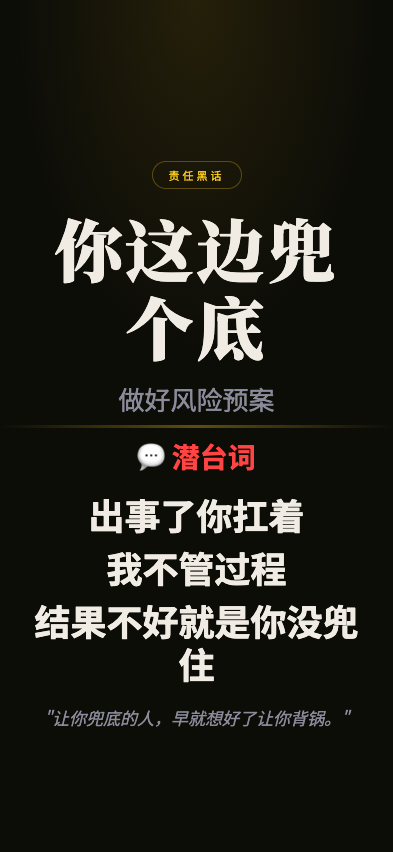
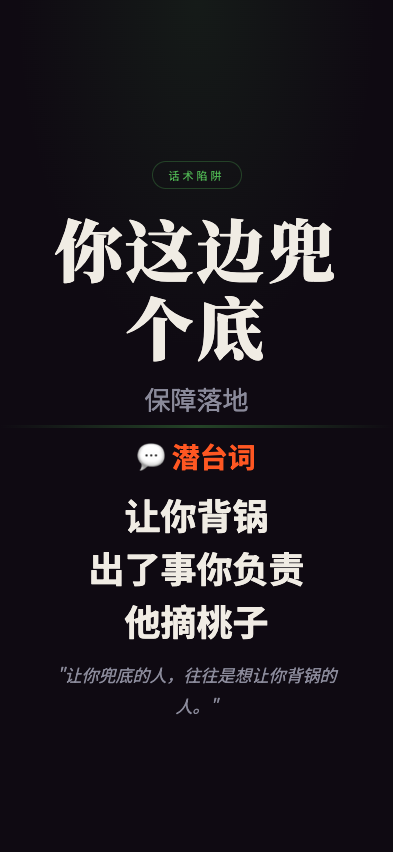
feat: 职场生存法则 screenshot - nizhebiandougedi

Changed region(s): [[0.0916, 0.5798, 0.916, 0.8545], [0.2443, 0.4577, 0.7634, 0.5493], [0.4275, 0.1831, 0.5802, 0.2136]]

diff --git a/wuliao-tools/tools/biz-speak/scenes/nizhebiandougedi.html b/wuliao-tools/tools/biz-speak/scenes/nizhebiandougedi.html
@@ -7,11 +7,11 @@
 <link href="https://fonts.googleapis.com/css2?family=Noto+Serif+SC:wght@400;700;900&family=Noto+Sans+SC:wght@300;400;700&display=swap" rel="stylesheet">
 <style>
   :root {
-    --bg: #0d0d08;
+    --bg: #0f0a12;
     --text: #f0ece4;
     --text-dim: #8a8a9a;
-    --gold: #f5c518;
-    --red: #ff4444;
+    --gold: #4caf50;
+    --red: #ff5722;
   }
   * { margin:0; padding:0; box-sizing:border-box; }
   html, body { width:100%; height:100%; overflow:hidden; }
@@ -24,11 +24,11 @@
   }
   body::before {
     content:''; position:absolute; top:0; left:0; right:0; height:45%;
-    background:radial-gradient(ellipse at 50% 0%, rgba(245,197,24,0.1) 0%, transparent 65%);
+    background:radial-gradient(ellipse at 50% 0%, rgba(76,175,80,0.1) 0%, transparent 65%);
     pointer-events:none; z-index:0;
   }
   .top { flex:1; display:flex; flex-direction:column; align-items:center; justify-content:flex-end; padding:4px 28px 8px; position:relative; z-index:1; }
-  .tag { font-size:11px; letter-spacing:3px; color:var(--gold); border:1px solid rgba(245,197,24,0.3); padding:5px 16px; border-radius:50px; margin-bottom:20px; }
+  .tag { font-size:11px; letter-spacing:3px; color:var(--gold); border:1px solid rgba(76,175,80,0.3); padding:5px 16px; border-radius:50px; margin-bottom:20px; }
   .main-title { font-family:'Noto Serif SC'; font-size:68px; font-weight:900; text-align:center; line-height:1.15; letter-spacing:3px; min-width:0; overflow-wrap:break-word; max-width:92%; }
   .sub-title { font-size:26px; color:var(--text-dim); text-align:center; margin-top:14px; }
   .divider { width:100%; height:3px; background:linear-gradient(90deg,transparent,var(--gold),transparent); opacity:0.35; flex-shrink:0; position:relative; z-index:1; }
@@ -41,19 +41,19 @@
 </head>
 <body>
   <div class="top">
-    <div class="tag">责任黑话</div>
+    <div class="tag">话术陷阱</div>
     <div class="main-title">你这边兜个底</div>
-    <div class="sub-title">做好风险预案</div>
+    <div class="sub-title">保障落地</div>
   </div>
   <div class="divider"></div>
   <div class="bottom">
     <div class="truth-label">💬 潜台词</div>
     <div class="truth-lines">
-      <div class="truth-line">出事了你扛着</div>
-      <div class="truth-line">我不管过程</div>
-      <div class="truth-line">结果不好就是你没兜住</div>
+      <div class="truth-line">让你背锅</div>
+      <div class="truth-line">出了事你负责</div>
+      <div class="truth-line">他摘桃子</div>
     </div>
-    <div class="quote">"让你兜底的人，早就想好了让你背锅。"</div>
+    <div class="quote">"让你兜底的人，往往是想让你背锅的人。"</div>
   </div>
 </body>
 </html>
